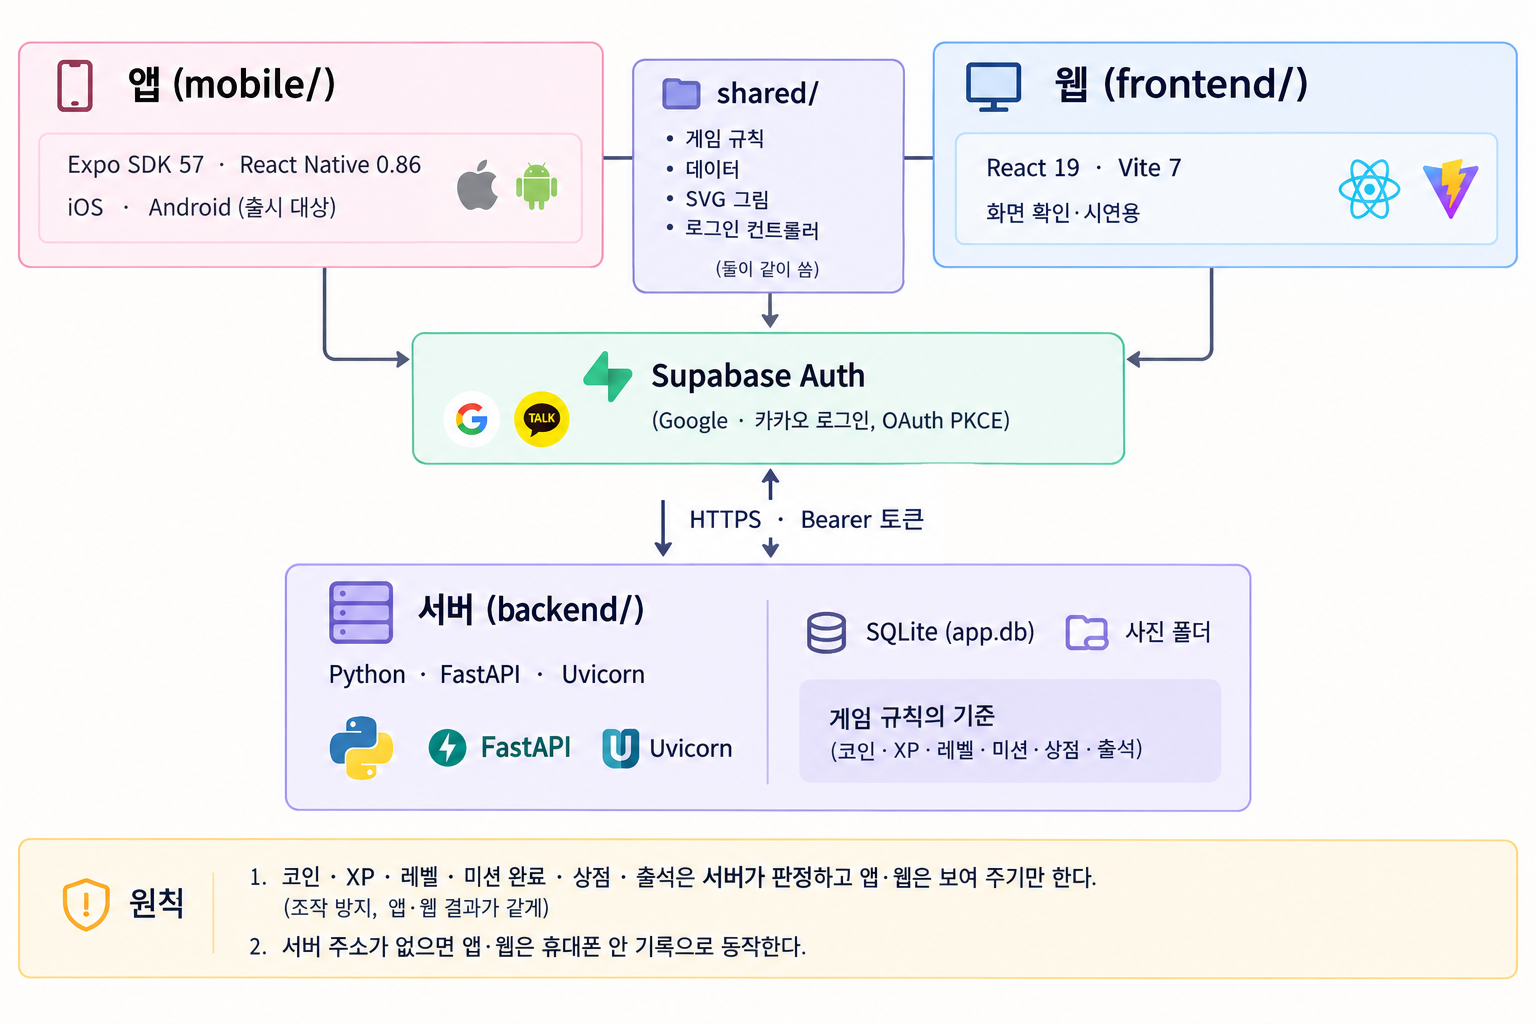
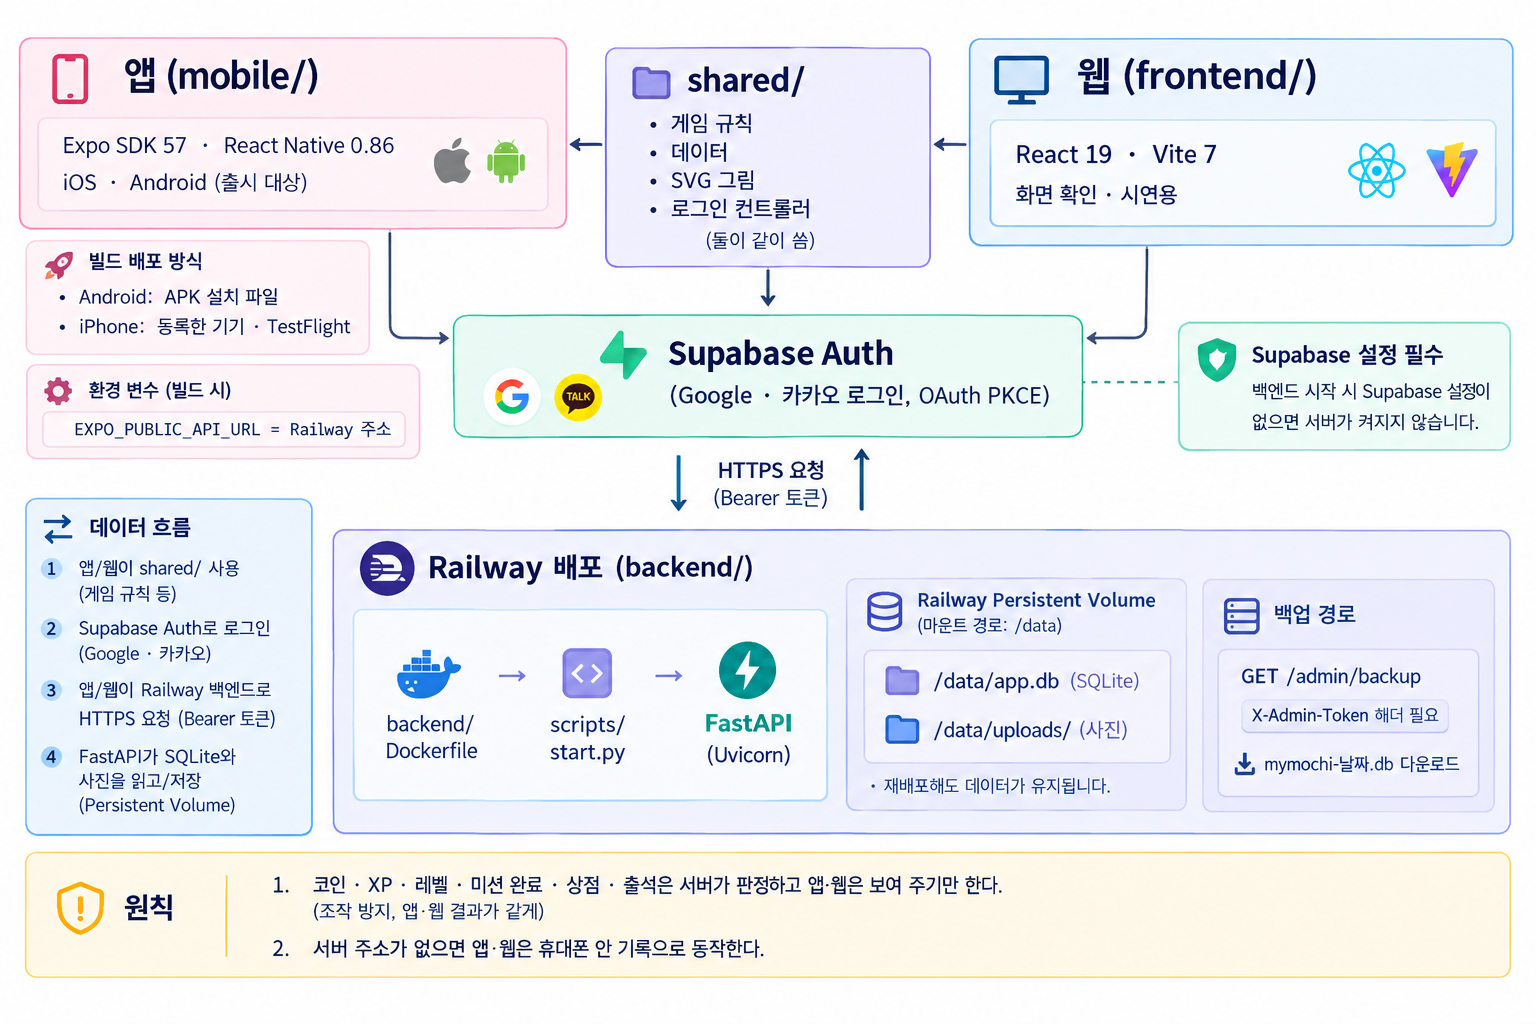
전체 구조 그림을 Railway 배포 기준으로 다시 그린 것으로 교체

Changed region(s): [[0.0, 0.0312, 1.0, 0.9375], [0.9375, 0.9375, 1.0, 0.9688], [0.8438, 0.9375, 0.9062, 0.9688]]

diff --git a/backend/CHANGELOG.md b/backend/CHANGELOG.md
@@ -13,6 +13,7 @@
 - 확인: `/health` → `{"ok":true}`, `/survey/questions` 200(DB 연결), `/users/x/shop` 401 `로그인이 필요해요.`(guard 정상), `/openapi.json` 200(API 70개)
 - 맨 앞 주소 `/`의 `Not Found`는 정상(그 주소에 API 없음)이라는 점을 DEPLOY.md 확인 절에 적음
 - 루트 README에 '백엔드 구조' 절: FastAPI 서버 구조도(`docs/screenshots/backend-structure.png`)와 요청 흐름·저장·로그인 요약
+- 전체 구조 그림(`docs/screenshots/structure.png`)을 배포 기준으로 다시 그린 것으로 교체(Railway·Volume·백업 경로·빌드 환경변수 포함)
 - README '배포' 절·DEPLOY.md Railway 절에 주소. 남은 것: expo.dev preview `EXPO_PUBLIC_API_URL`에 이 주소 → APK 빌드(앱 담당), `ADMIN_TOKEN` 넣고 `/admin/backup` 확인
 
 ## 2026-10-20 — Railway 빌드 실패(Railpack) 고침: 맨 위 Dockerfile

diff --git a/README.md b/README.md
@@ -146,7 +146,7 @@
 
 ### 6-0. 전체 구조
 
-<img src="docs/screenshots/structure.png" alt="전체 구조: 앱(mobile)·웹(frontend)이 shared를 같이 쓰고, Supabase Auth로 로그인, HTTPS·Bearer 토큰으로 서버(backend: FastAPI·SQLite)와 통신" width="100%">
+<img src="docs/screenshots/structure.png" alt="전체 구조: 앱(mobile)·웹(frontend)이 shared를 같이 쓰고, Supabase Auth로 로그인, HTTPS·Bearer 토큰으로 Railway 서버(backend: Dockerfile → start.py → FastAPI, Volume /data에 SQLite·사진, /admin/backup 백업)와 통신" width="100%">
 
 **원칙**: 코인·XP·레벨·미션 완료·상점·출석은 **서버가 판정**하고 앱·웹은 보여 주기만 한다(조작 방지, 앱·웹 결과가 같게). 서버 주소가 없으면 앱·웹은 휴대폰 안 기록으로 동작한다.
 
